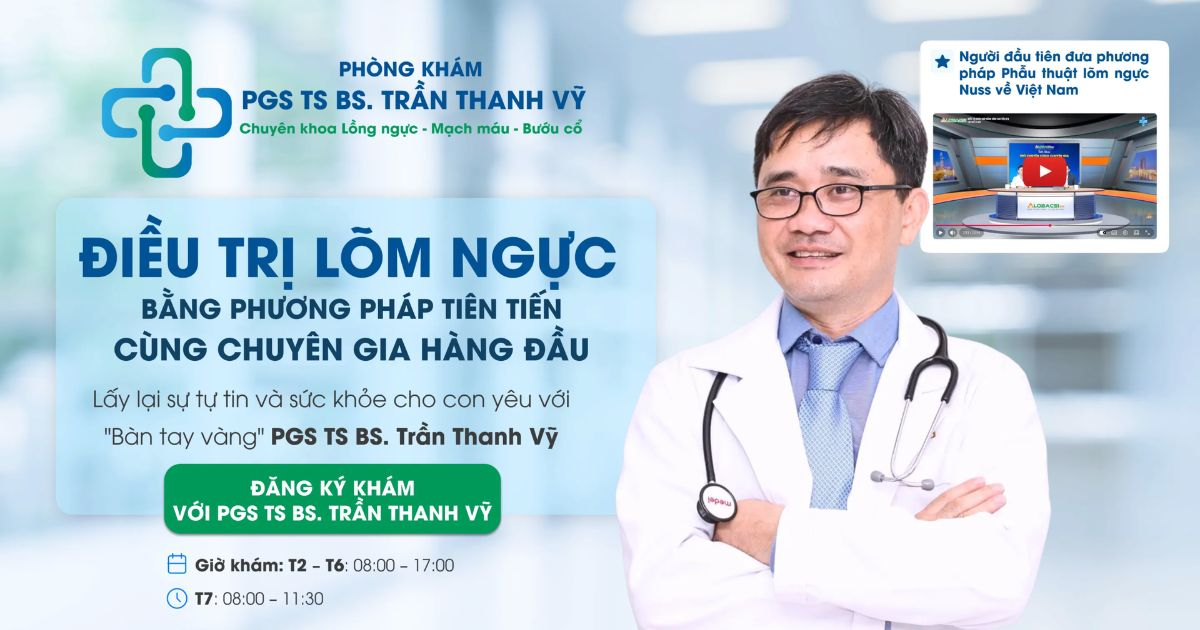
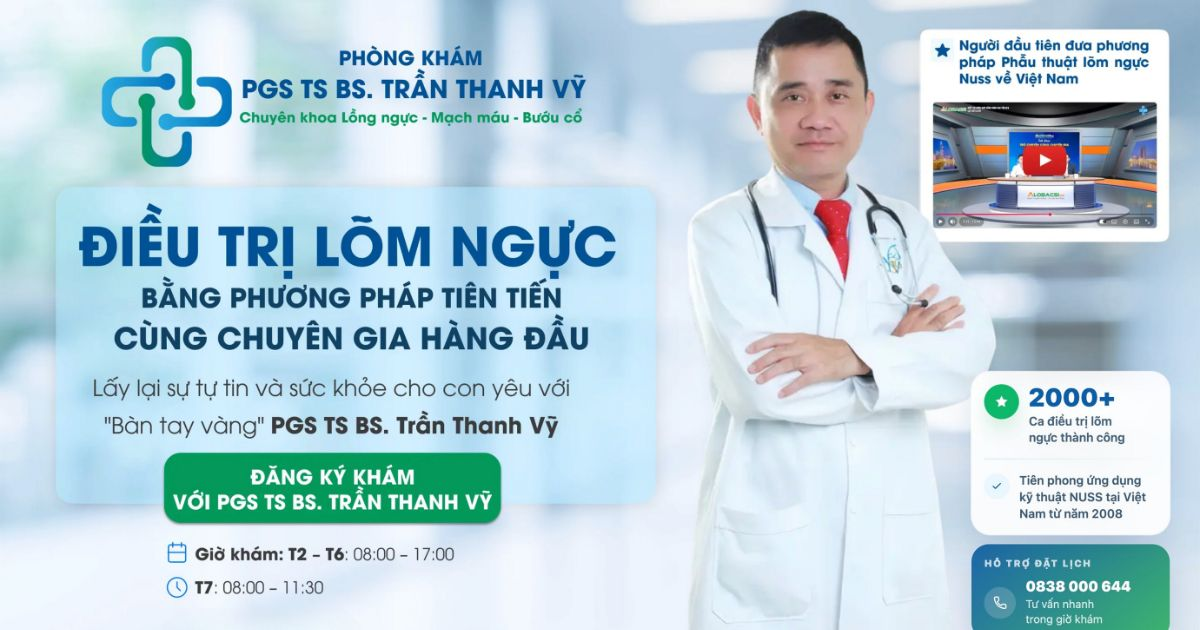
feat: enhance HeroSection with new content and layout adjustments, update SeveritySection styling, and add Open Graph images

diff --git a/apps/web/app/components/landing/hero-section.tsx b/apps/web/app/components/landing/hero-section.tsx
@@ -1,4 +1,6 @@
 import Image from "next/image";
+import { HOTLINE_DISPLAY } from "./content";
+import { CheckIcon, PhoneIcon, StarIcon } from "./icons";
 
 export function HeroSection() {
   return (
@@ -22,7 +24,7 @@ export function HeroSection() {
           className="h-auto w-full md:hidden"
           sizes="100vw"
         />
-        <div className="pointer-events-none absolute bottom-0 right-[-10%] top-8 md:top-32 bottom-1.5 w-[60%] md:right-[7%] md:w-[50%]">
+        <div className="pointer-events-none absolute bottom-0 right-[-10%] top-8 md:top-8 bottom-1.5 w-[60%] md:right-[5%] md:w-[50%]">
           <Image
             priority
             src="/assets/bs-vy-2.png"
@@ -31,6 +33,54 @@ export function HeroSection() {
             className="object-contain object-bottom"
             sizes="52vw"
           />
+        </div>
+
+        <div className="absolute bottom-[8%] right-[2.5%] z-10 hidden w-[220px] flex-col gap-3 lg:flex xl:w-[250px]">
+          <div className="rounded-[24px] bg-white/88 p-4 shadow-[0_20px_44px_rgba(16,68,121,0.14)] ring-1 ring-white/70 backdrop-blur-sm">
+            <div className="flex items-start gap-3">
+              <span className="inline-flex size-11 shrink-0 items-center justify-center rounded-full bg-[#12b76a] text-white shadow-[0_12px_24px_rgba(18,183,106,0.22)]">
+                <StarIcon className="size-5" />
+              </span>
+              <div>
+                <p className="text-[2rem] font-black leading-none text-[#0b5ea6]">
+                  2000+
+                </p>
+                <p className="mt-1 text-sm font-semibold leading-snug text-[#44627c] xl:text-[0.95rem]">
+                  Ca điều trị lõm ngực thành công
+                </p>
+              </div>
+            </div>
+
+            <div className="mt-4 h-px bg-gradient-to-r from-[#cfe8ff] via-[#d9f5e8] to-transparent" />
+
+            <div className="mt-4 flex items-start gap-3 text-[#3e5b75]">
+              <span className="mt-0.5 inline-flex size-8 shrink-0 items-center justify-center rounded-full bg-[#eaf7ff] text-[#0b5ea6]">
+                <CheckIcon className="size-4" />
+              </span>
+              <p className="text-sm font-semibold leading-snug xl:text-[0.95rem]">
+                Tiên phong ứng dụng kỹ thuật NUSS tại Việt Nam từ năm 2008
+              </p>
+            </div>
+          </div>
+
+          <div className="rounded-[22px] bg-[linear-gradient(135deg,_rgba(11,94,166,0.94)_0%,_rgba(16,174,90,0.88)_100%)] p-4 text-white shadow-[0_20px_44px_rgba(16,68,121,0.2)] ring-1 ring-white/25">
+            <p className="text-xs font-black uppercase tracking-[0.14em] text-white/78">
+              Hỗ trợ đặt lịch
+            </p>
+            <div className="mt-3 flex items-center gap-3">
+              <span className="inline-flex size-10 shrink-0 items-center justify-center rounded-full bg-white/16">
+                <PhoneIcon className="size-5" />
+              </span>
+              <div>
+                <p className="text-lg font-black leading-none">
+                  {HOTLINE_DISPLAY}
+                </p>
+                <p className="mt-1 text-sm leading-snug text-white/80">
+                  Tư vấn nhanh trong giờ khám
+                </p>
+              </div>
+            </div>
+          </div>
         </div>
       </div>
       <Image

diff --git a/apps/web/app/components/landing/severity-section.tsx b/apps/web/app/components/landing/severity-section.tsx
@@ -18,7 +18,7 @@ export function SeveritySection() {
           nextLabel="Xem mức độ tiếp theo"
           className="mt-8 md:hidden"
           renderItem={(card) => (
-            <div className="overflow-hidden rounded-[28px] shadow-[0_22px_56px_rgba(173,102,18,0.18)]">
+            <div className="mx-auto w-full max-w-[390px] overflow-hidden rounded-[28px] shadow-[0_22px_56px_rgba(173,102,18,0.18)]">
               <Image
                 src={card.src}
                 alt={card.alt}
@@ -46,9 +46,9 @@ export function SeveritySection() {
           ))}
         </div>
         <p className="mx-auto mt-8 max-w-[1100px] text-center text-[1.3rem] font-black leading-snug text-[#0b5ea6] md:text-[1.9rem]">
-          <span className="text-[#ff7a00]">Lời khuyên:</span> Phẫu thuật sớm
-          (từ 6 - 14 tuổi) đạt hiệu quả cao nhất khi xương còn mềm, giảm nguy
-          cơ biến chứng và tâm lý mặc cảm.
+          <span className="text-[#ff7a00]">Lời khuyên:</span> Phẫu thuật sớm (từ
+          6 - 14 tuổi) đạt hiệu quả cao nhất khi xương còn mềm, giảm nguy cơ
+          biến chứng và tâm lý mặc cảm.
         </p>
 
         <div className="mt-4">
